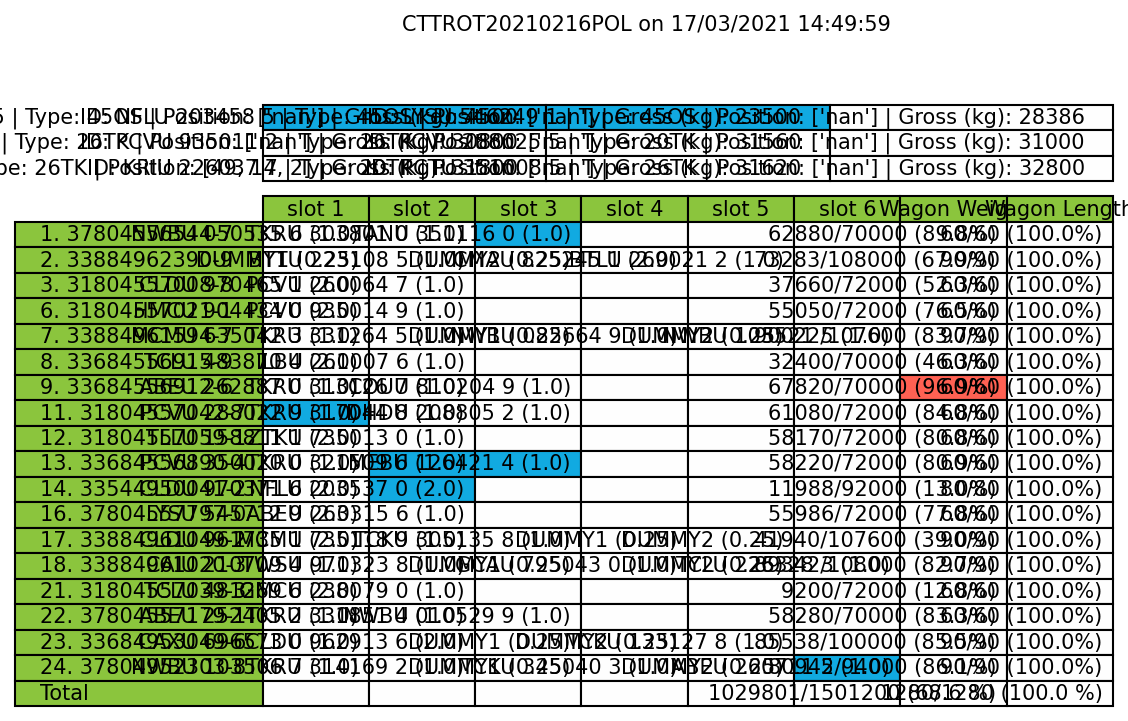
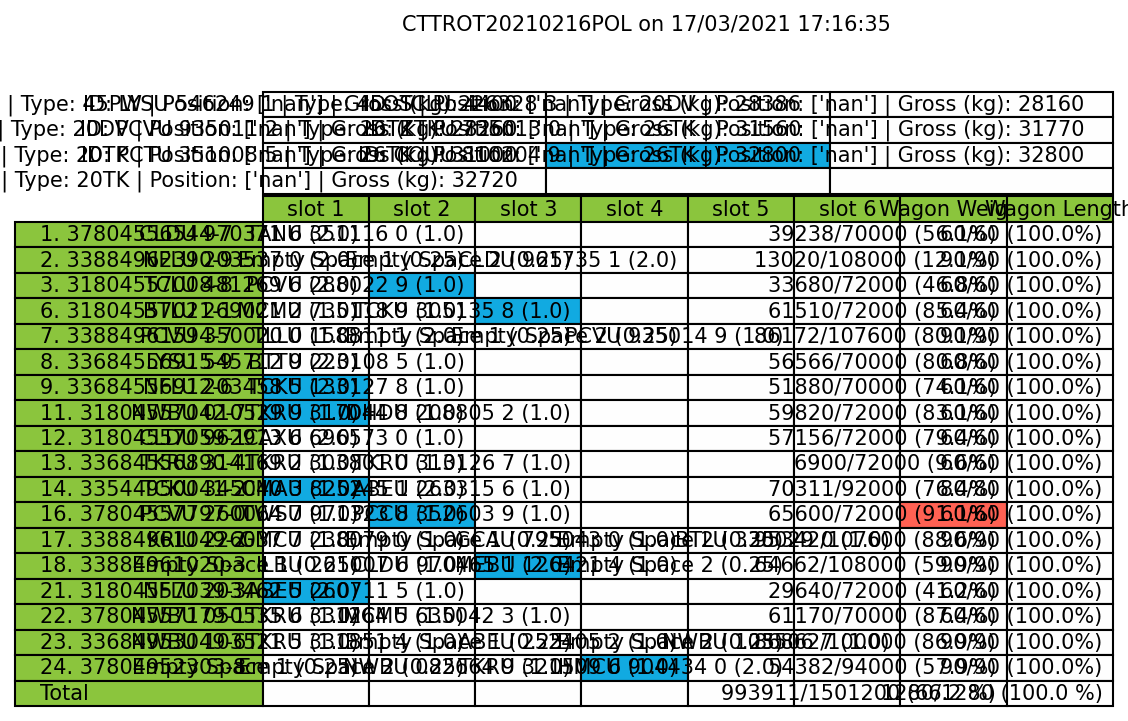
Contents constraint works now

diff --git a/scripts/TrainLoadingConstraint.py b/scripts/TrainLoadingConstraint.py
@@ -28,8 +28,9 @@ def main(train):
         print("Container ", i, "Must be loaded")
         priority_list.append(i)
     
-    # Make every sixth container hazardous
-    for i in range(0, len(containers), 10):
+    # Make every nth container hazardous
+    n = 5
+    for i in range(0, len(containers), n):
         print("Container ", i, "is hazardous")
         containers[i].set_hazard_class(1)
 
@@ -119,7 +120,37 @@ def main(train):
                     for c_i, container in enumerate(containers) 
                     for w_j, wagon in enumerate(train.wagons)) <= train.maxWeight)
 
+    # The distance between two hazardous containers should be at least one wagon
+    for c_i, container_i in enumerate(containers):
+        for c_ii, container_ii in enumerate(containers):
+            if(c_i == c_ii):
+                continue
+            if(not container_i.get_hazard_class() > 0 or not container_ii.get_hazard_class() > 0):
+                continue
 
+            # Let OR-tools determine this value
+            # The constraints force OR tools to choose the right value
+            direction = model.NewBoolVar('direction_to_enforce')
+
+            # TODO: remove position and position_2, this 
+            # makes the code more messy, but probably faster for long solves
+            # TODO: if there are too many hazardous goods, then the solver can't find the solution
+            # So add a check somewhere to see if it is possible to uphold this constraint
+            position = model.NewIntVar(0, 40, 'position_%i' % c_i)
+            position_2 = model.NewIntVar(0, 40, 'position_%i' % c_ii)
+            model.Add(
+                position == sum(x[c_i, w_j] * int(wagon.get_position()) for w_j, wagon in enumerate(train.wagons))
+                )
+            model.Add(
+                position_2 == sum(x[c_ii, w_j] * int(wagon.get_position()) for w_j, wagon in enumerate(train.wagons))
+                )
+            model.Add(
+                position >= 2 + position_2
+                ).OnlyEnforceIf(direction)
+            model.Add(
+                position  <= -2 + position_2
+            ).OnlyEnforceIf(direction.Not())
+    
     """
                 OBJECTIVE
     """
@@ -246,7 +277,7 @@ def main(train):
 
         # print(solver.ResponseStats())
     elif status == cp_model.FEASIBLE:
-        print('hoi')
+        print('hoi, status == cp_model.FEASIBLE')
     else:
         print("Solution Not found. Stats: ", solver.ResponseStats())
     
